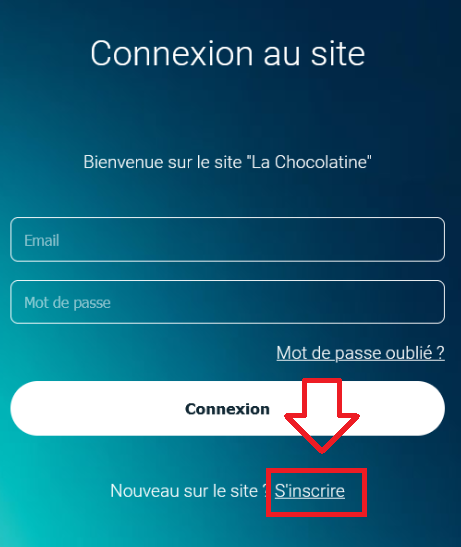
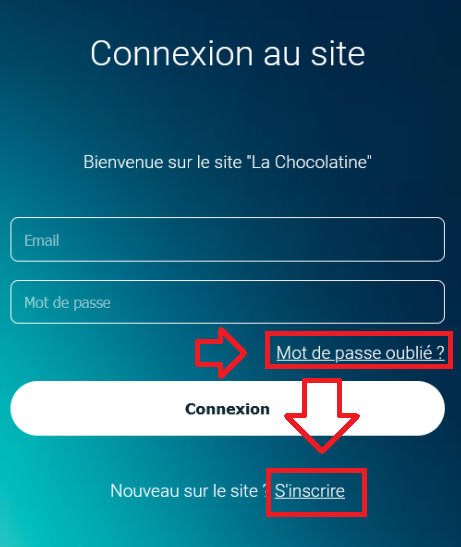
update enonce

Changed region(s): [[0.577, 0.5905, 1.0, 0.6837], [0.4252, 0.5905, 0.5466, 0.7148]]

diff --git a/m05/m5-tp-enonce.md b/m05/m5-tp-enonce.md
@@ -16,8 +16,14 @@ L’objectif est de reproduire cet écran d'inscription en HTML/CSS
   <img src="screenshot_01.png" alt="Screenshot">
 </p>
 
+Et cet écran **Récupération de mot de passe**
 
-Pour la redirection sur la page d'inscription, elle aura lieu grace à ce lien hypertexte :
+<p align="center">
+  <img src="screenshot_06.png" alt="Screenshot">
+</p>
+
+
+Pour la redirection sur la page d'**inscription** et **Récupération de mot de passe**, elle aura lieu grace à ce lien hypertexte :
 
 <p align="center">
   <img src="screenshot_02.png" alt="Screenshot">
